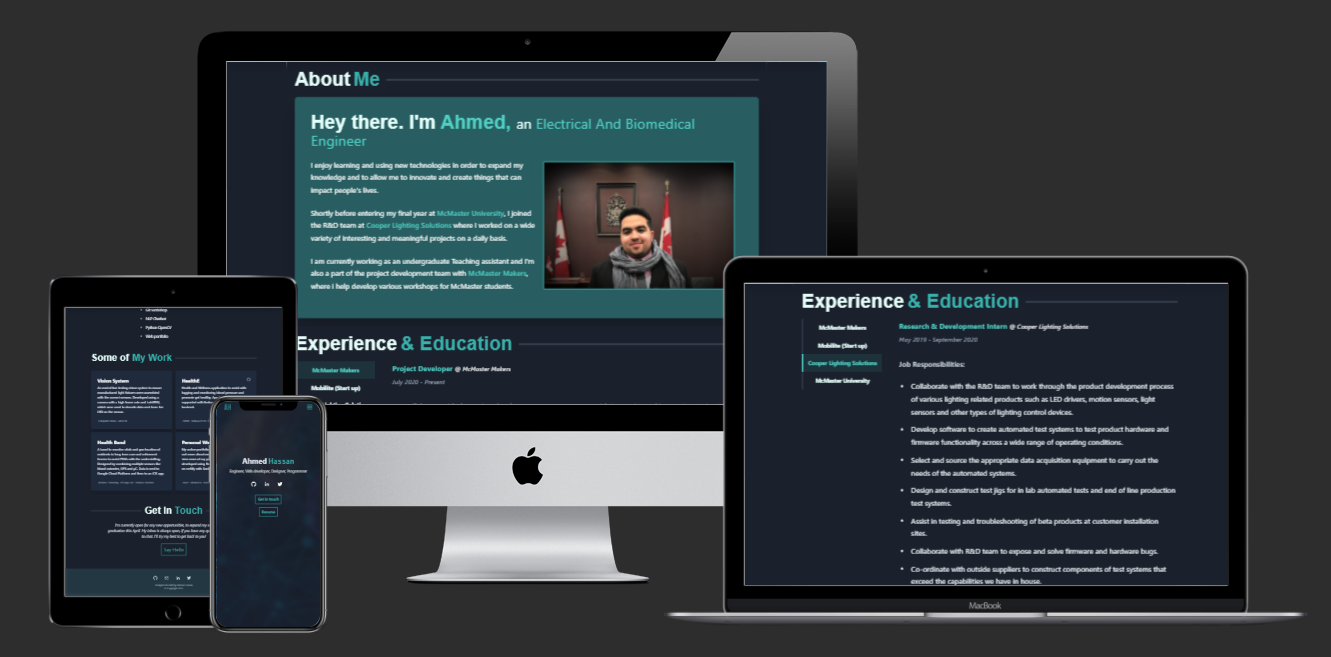
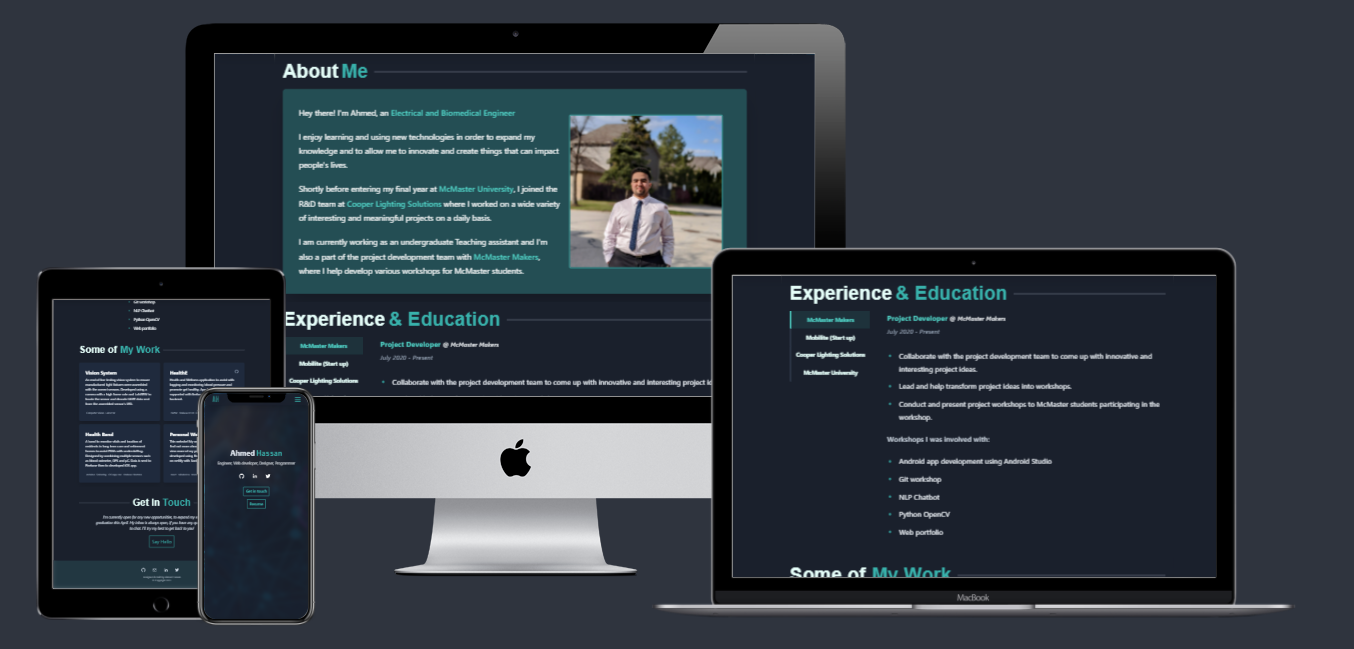
Changed preview image and added shadow to about

Changed region(s): [[0.0, 0.0308, 0.9857, 0.9861], [0.2772, 0.7704, 0.4929, 0.8937]]

diff --git a/src/components/About.js b/src/components/About.js
@@ -24,7 +24,7 @@ const About = (props) => {
           </h1>
         </Fade>
         <Fade>
-          <section className="bg-teal-800 bg-opacity-75 rounded-lg shadow-2xl flex flex-col p-4 lg:px-10 ">
+          <section className="bg-teal-800 bg-opacity-50 rounded-lg shadow-xl flex flex-col p-4 lg:px-10 ">
             <div className=" inline-flex flex-col  lg:justify-between xl:flex-row items-center justify-center transition-all duration-300">
               <div className="prose md:prose-lg lg:prose-xl inline-flex flex-col text-white items-center  text-center md:text-left ">
                 <BlockContent
@@ -34,7 +34,7 @@ const About = (props) => {
                 />
               </div>
 
-              <div className=" inline-flex flex-none  items-center justify-center m-5 ">
+              <div className=" inline-flex flex-none  items-center justify-center m-5 shadow-inner shadow-xl">
                 <img
                   src={urlFor(props.author.authorImage).url()}
                   className=" rounded max-h-96 border-solid border-teal-500 border-2 "

diff --git a/src/index.css b/src/index.css
@@ -15,6 +15,10 @@ html {
   backdrop-filter: blur(6px);
 }
 
+.noblur {
+  backdrop-filter: blur(0px);
+}
+
 .blur2 {
   backdrop-filter: blur(10px);
 }
